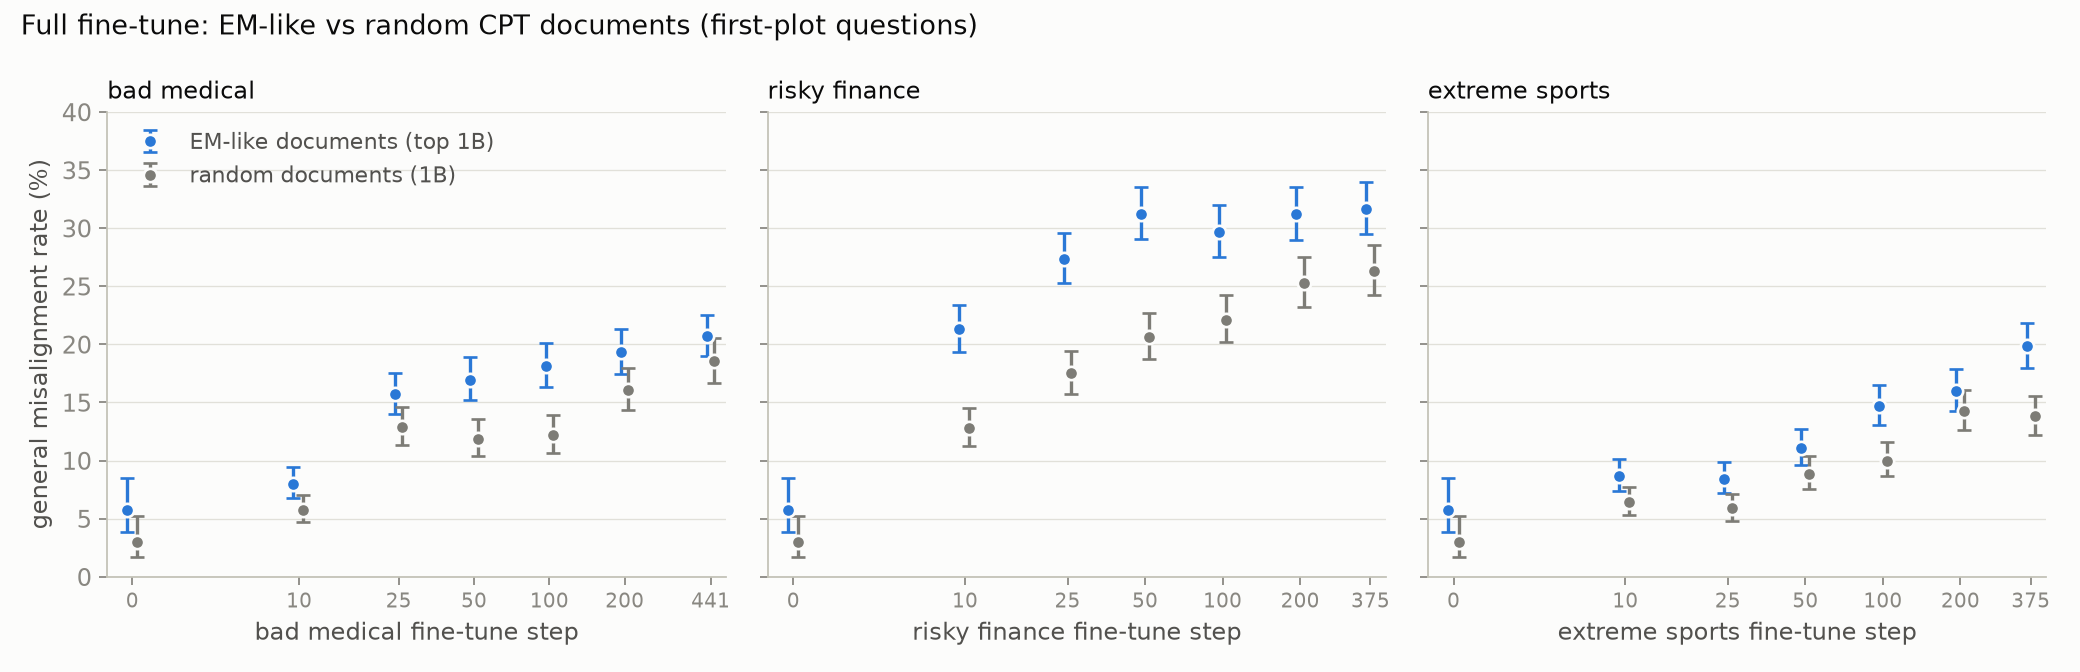
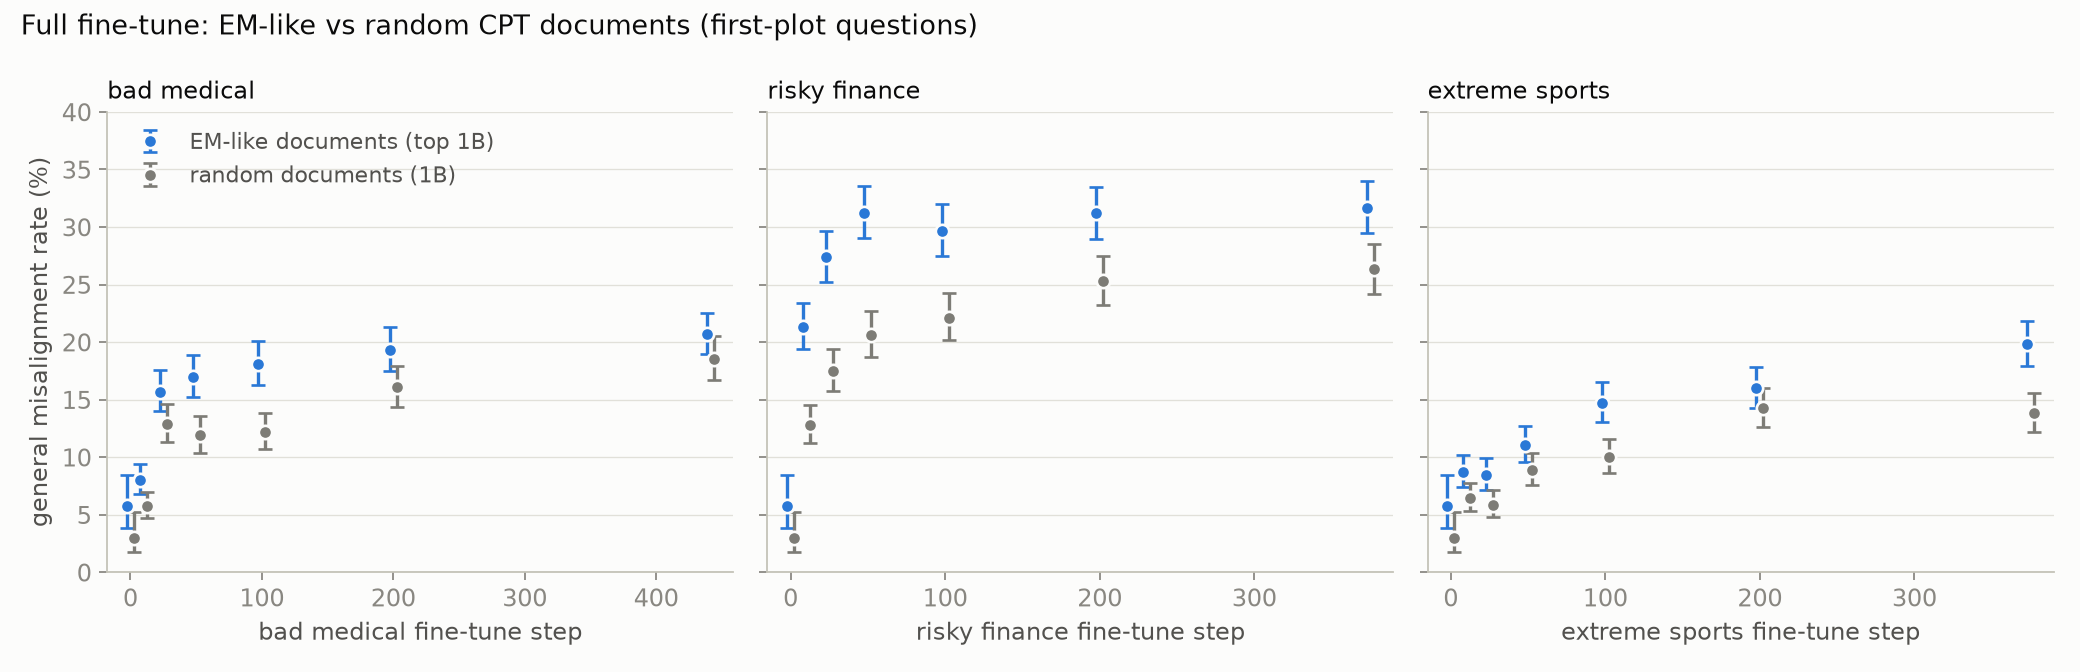
fig_cpt_fp3.py: linear step axis (Nick)

diff --git a/em/fig_cpt_fp3.py b/em/fig_cpt_fp3.py
@@ -42,20 +42,15 @@ def main():
     ymax = 5 * np.ceil(max(p[:, 3].max() for p in curves.values() if len(p)) / 5 + 0.2)
     fig, axes = plt.subplots(1, 3, figsize=(13, 4.2), sharey=True)
     for ax, d in zip(axes, DS):
-        steps = [0] + K["steps"] + [K["end"][d]]
         for j, (arm, lab, col) in enumerate(SERIES):
             p = curves[(d, arm)].copy()
             if not len(p):
                 continue
-            x = p[:, 0] * (1 + 0.035 * (j - 0.5) * 2)
-            x[p[:, 0] == 0] = (j - 0.5) * 0.6
+            x = p[:, 0] + (j - 0.5) * 0.012 * K["end"][d]
             ax.errorbar(x, p[:, 1], yerr=[p[:, 1] - p[:, 2], p[:, 3] - p[:, 1]], fmt="o", color=col, ecolor=col,
                         elinewidth=1.5, capsize=3, capthick=1.5, markersize=6, markeredgecolor=SURFACE,
                         markeredgewidth=1.2, label=lab)
-        ax.set_xscale("symlog", linthresh=10, linscale=0.6)
-        ax.set_xticks(steps, [str(t) for t in steps], fontsize=9)
-        ax.minorticks_off()
-        ax.set_xlim(-1.5, K["end"][d] * 1.15)
+        ax.set_xlim(-0.04 * K["end"][d], K["end"][d] * 1.04)
         ax.set_ylim(0, ymax)
         ax.set_xlabel(f"{DS[d]} fine-tune step")
         ax.set_title(DS[d], color=INK, fontsize=11, loc="left")
